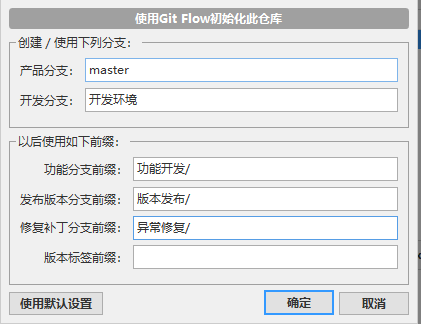
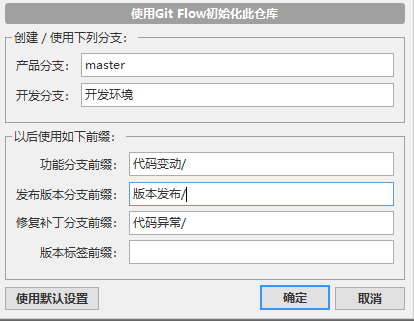
UPDATE

Changed region(s): [[0.0, 0.0, 1.0, 1.0]]

diff --git a/docs/README.md b/docs/README.md
@@ -25,11 +25,11 @@
    >- `GIT`模板规范
    >
    >```tex
-   >[ 新增功能.Gx | 功能变更.Gx | 异常修复.Ex | 版本发布 ]提交标题
+   >[ 代码变动(G) | 代码异常(E) | 版本发布(V) | 提交忽略 ] - {G,E}{index} | v1.x.x
    >
-   >  - 详细描述( 具体影响变动 )
-   >  -
-   >  -
+   >  - nameof(AClass): 增加功能 AClass( 具体变动 )
+   >  - nameof(AClass.Print): 变更功能, 内部修改( 具体变动 )
+   >  - nameof(AClass.Print): 异常修复, 内部修改( 具体变动 )
    >
    >备注: Issues< #1 >
    >
@@ -37,9 +37,9 @@
    >
    >---
    >
-   ><span style='color:red'>[`SourceTree`代码提交步骤 ]</span>
+   ><span style='color:red'>[`SourceTree`代码管理规范 ]</span>
    >
-   >- 初始化`GIT`仓库，提交初始版本`[ 版本初始 ] - v1.0.0`
+   >- 初始化`GIT`仓库，提交初始版本`[ 版本发布 ] - v1.0.0`
    >
    >- 初始化`Git Flow`工作流，转到[`开发环境`]
    >
@@ -47,9 +47,9 @@
    >
    >  
    >
-   >- [`功能开发：Gx-yyyyMMdd.HHmmss`] [`最终合并 - 开发环境`]
+   >- [`代码变动：G{index}`] [`最终合并 - 开发环境`]
    >
-   >- [`异常修复：Ex-yyyyMMdd.HHmmss`] [`最终合并 - 开发环境`]
+   >- [`代码异常：E{index}`] [`最终合并 - 开发环境`]
    >- [`版本发布：v1.0.0`] [`最终合并 - 开发环境 | 正式环境`]
    >
    >
